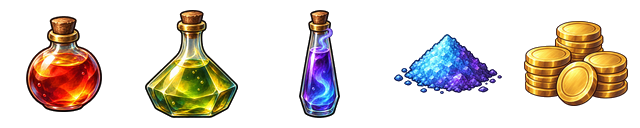
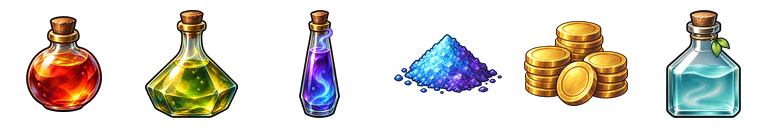
art(ui): painted calming draught (ART-UI-POTION-CALM-001 R1) and square potion art in the brew list
Appends Codex R1 as the sixth potion_items cell (lossless; the five existing
cells are pixel-identical), drops the line-icon stand-in and cache-busts the
atlas URL. Also fixes the brew list stretching every bottle sideways:
`.hire-list li > span { flex: 1 }` caught the potion-art span. No rules, save,
price or balance change.

Claude-Session: https://claude.ai/code/session_014iPEcLAAoUjhNpzHtFXsZc

diff --git a/src/ui/equip-art.ts b/src/ui/equip-art.ts
@@ -18,10 +18,9 @@ export function gearArt(item: Item): string {
   const art = c ? `<i class="equip-sprite" style="--atlas:url(${equipArtUrl('gear_items')});--cols:${cols};--rows:${rows};${at(c.col, c.row, cols, rows)}"></i>` : icon(slotIcon[item.slot]);
   return `<span class="gear-art" data-rarity="${item.rarity}" aria-hidden="true">${art}${item.set ? setEmblem(item.set) : ''}${item.boss?'<i class="boss-gear-marker">◆</i>':''}</span>`;
 }
-// The calming draught (P02) has no painted frame yet: its line icon stands in until Codex paints one.
-export const PAINTED_POTIONS = ['salve', 'tonic', 'repel'] as const;
+// The calming draught (P02) is painted since ART-UI-POTION-CALM-001 R1 (2026-11-04); the line icon stays for compact lists.
+export const PAINTED_POTIONS = ['salve', 'tonic', 'repel', 'calm'] as const;
 export function potionArt(id: PotionId | 'dust' | 'gold'): string {
-  if (id === 'calm') return `<span class="potion-art potion-art-icon" aria-hidden="true">${icon('potionCalm')}</span>`;
   const c = potionCell(id);
   const { cols, rows } = equipAtlasSize.potion_items;
   return `<span class="potion-art" aria-hidden="true"><i class="equip-sprite" style="--atlas:url(${equipArtUrl('potion_items')});--cols:${cols};--rows:${rows};${at(c.col, c.row, cols, rows)}"></i></span>`;

diff --git a/src/game/visuals/equip-art.ts b/src/game/visuals/equip-art.ts
@@ -16,7 +16,7 @@ export const equipAtlasSize = {
 };
 // Public assets keep their filename. Bump the gear revision (SHA256 prefix) when
 // its pixels change so existing browsers fetch the corrected artwork.
-export const equipArtUrl = (name: 'gear_items' | 'potion_items' | 'set_emblems'): string => `${import.meta.env.BASE_URL}assets/ui/equip/${name}.webp${name === 'gear_items' ? '?v=3935edef' : ''}`;
+export const equipArtUrl = (name: 'gear_items' | 'potion_items' | 'set_emblems'): string => `${import.meta.env.BASE_URL}assets/ui/equip/${name}.webp${name === 'gear_items' ? '?v=3935edef' : name === 'potion_items' ? '?v=c33f5fbb' : ''}`;
 const cell = (f: Frame | undefined) => f && { col: f.x / CELL, row: f.y / CELL };
 // Saved rarity is zero-based (0 common … 4 legendary): 0–1 worn, 2 fine, 3–4 masterwork.
 export function gearCell(item: Pick<Item, 'slot' | 'hero' | 'rarity' | 'set' | 'boss'>): { col: number; row: number } | undefined {

diff --git a/src/ui/portrait.css b/src/ui/portrait.css
@@ -64,8 +64,6 @@ body { display: grid; place-items: center; background: radial-gradient(ellipse a
 #battle-view .hero-card.hud-target:disabled { opacity: .55; }
 #battle-view .hero-card.hud-target.valid-target { background: #3b3020; }
 #battle-view .hud-cast-cue { display: block; color: #ffe0a1; font-size: 10px; line-height: 12px; }
-.potion-art-icon { border: 1px solid #86dfc299; border-radius: 12px; background: radial-gradient(circle, #356459, #102f32); color: #b7ffe0; }
-.potion-art-icon .icon { width: 28px; height: 28px; }
 #battle-view .command-dock { padding: 0 6px 6px; margin: 0; background: transparent; }
 #battle-view #selected-hero { display: flex; align-items: center; height: 44px; margin: 0; gap: 4px; }
 #battle-view #selected-hero .selected-info { flex: 1; min-width: 0; }

diff --git a/src/ui/game-feel.css b/src/ui/game-feel.css
@@ -626,6 +626,8 @@ html, body { background: #0a1422; }
 .gear-detail > .gear-art, .forge-detail > .gear-art { --art: 64px; justify-self: start; }
 .forge-detail h4 .icon { width: 16px; height: 16px; vertical-align: -3px; color: var(--gold-light, #f2d596); }
 .pack-potions li .potion-art, .brew-list li .potion-art { --art: 40px; }
+/* The potion art is a <span>: keep it square instead of taking `.hire-list li > span { flex: 1 }` (it stretched the bottles). */
+.hire-list li > .potion-art { flex: none; }
 .pack-list li .potion-art { --art: 40px; }
 .gear-art .equip-sprite { inset: 3px; }
 .gear-art > .icon { width: 60%; height: 60%; color: var(--rarity, #b9c8d8); }

diff --git a/docs/validation/calm-potion/README_TH.md b/docs/validation/calm-potion/README_TH.md
@@ -1,0 +1,9 @@
+# ภาพวาดยาฟื้นความเหนื่อย (calm) — นำเข้า 2026-11-04
+
+- ที่มา: Codex [PR #151](https://github.com/wnau34-nptrn/asterveil-fateweave/pull/151) `ART-UI-POTION-CALM-001` (head `0caff1d`) เลือก **R1** (aqua + หมอกเงิน ตามที่ Codex แนะนำ) — เจ้าของมอบให้ Claude ตัดสินเรื่องภาพ (“เรื่องภาพหรืออะไรให้คุณตัดสินใจได้เลย”, 2026-11-04) ไม่ใช่การอนุมัติภาพโดยตรงของเจ้าของ
+- ตรวจ SHA-256 `calm-R1.png` = `e26291f3…` ตรงกับ `validation.json` ของ package; ดู `review-390.png` ทั้งสีและขาวดำที่ 44/28px แล้ว R1 แยกจาก salve/tonic/repel ด้วยทรงไหล่กว้าง ไม่ใช่สีอย่างเดียว (R2 สีใกล้ repel, R3 กว้างเกิน)
+- `public/assets/ui/equip/potion_items.webp` 640×128 → 768×128 lossless: 5 ช่องเดิมตรงทุกพิกเซลกับไฟล์เดิมที่ decode แล้ว, ช่อง 6 ตรงกับ R1 ทุกพิกเซล (59,954 → 69,974 bytes) · `potion_items.json` เพิ่ม `potion_calm` (640,0) · URL ใส่ `?v=c33f5fbb` ให้เบราว์เซอร์โหลดใหม่
+- `src/ui/equip-art.ts` เลิกใช้ไอคอนเส้นแทนภาพ (`potion-art-icon` CSS ลบออก); ไอคอนเส้น `potionCalm` ยังใช้ในรายการย่อตามเดิม
+- แก้บั๊กเดิมระหว่างตรวจ: ภาพยาในหน้าปรุงยาถูกยืดแนวนอน เพราะ `.hire-list li > span { flex: 1 }` (`world.css`) จับ `<span class="potion-art">` ด้วย เพิ่ม `.hire-list li > .potion-art { flex: none; }`
+- ภาพจริง 390×844 หลังแก้: [brew-390x844.png](brew-390x844.png) จาก `tests/browser/world.spec.ts` “potions: brew in the lobby” (Chromium เท่านั้น)
+- ไม่เปลี่ยนกฎ เซฟ ราคา หรือสมดุล
